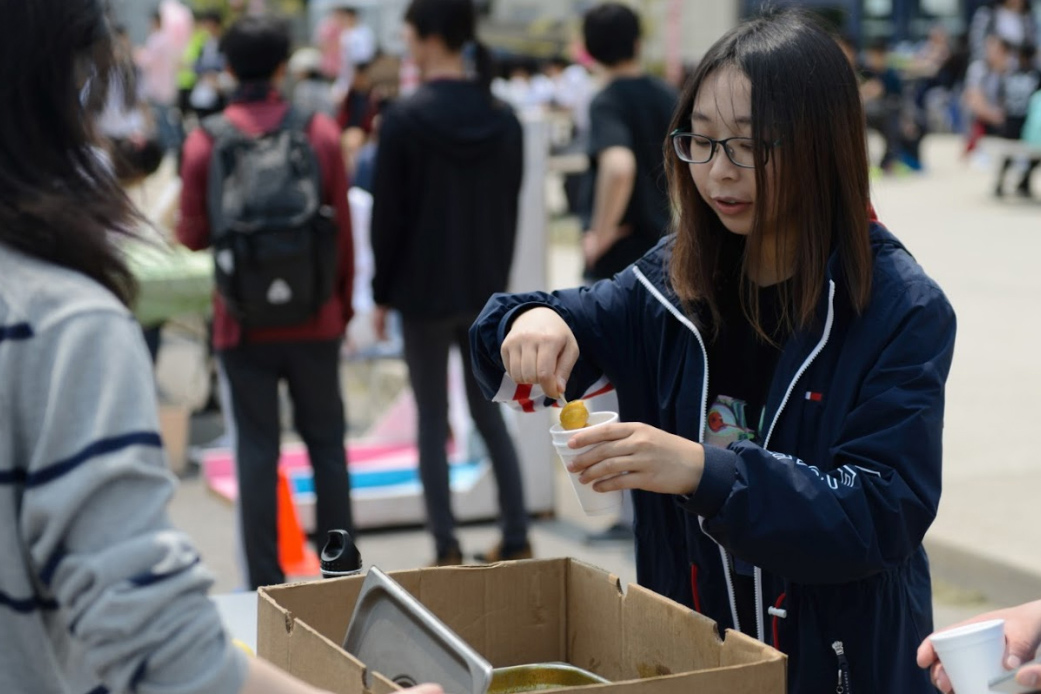
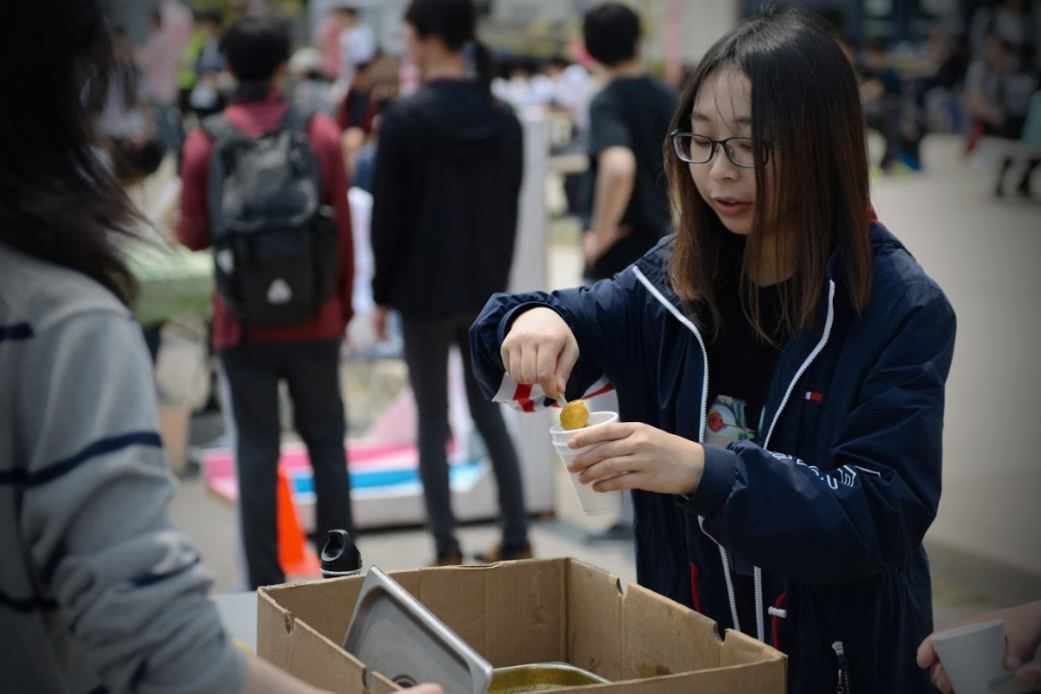
added vignett to all the images in the slide
Former-commit-id: 75e776956f2dadb9fc06f7525bd3137890ef59cb

diff --git a/index.html b/index.html
@@ -153,7 +153,7 @@
 					</ol>
 					<div class="carousel-inner">
 						<div class="carousel-item active">
-							<img class="d-block w-100 lozad" data-src="images/group/group-2020.jpg" alt="team">
+							<img class="d-block w-100 lozad" data-src="images/events/durham.jpg" alt="team">
 							<div class="carousel-caption d-block">
 								<h5>Our Team 2020</h5>
 								<p>Lorem ipsum dolor sit amet consectetur adipisicing elit. Ipsam, libero vitae possimus odit, voluptatem tempora quia dicta, neque nam inventore voluptate sunt itaque saepe voluptatibus nisi in et quibusdam delectus.</p>
@@ -200,7 +200,7 @@
 					<div class="carousel-inner">
 						<div class="carousel-item active">
 							<div class="card w-100">
-								<img class="card-img-top lozad" data-src="images/group/group-2020.jpg" alt="team">
+								<img class="card-img-top lozad" data-src="images/events/durham.jpg" alt="team">
 								<div class="card-body">
 									<h5 class="card-title">Our Team 2020</h5>
 									<p class="card-text">Lorem ipsum dolor sit amet consectetur adipisicing elit. Ipsam, libero vitae possimus odit, voluptatem tempora quia dicta, neque nam inventore voluptate sunt itaque saepe voluptatibus nisi in et quibusdam delectus.</p>
